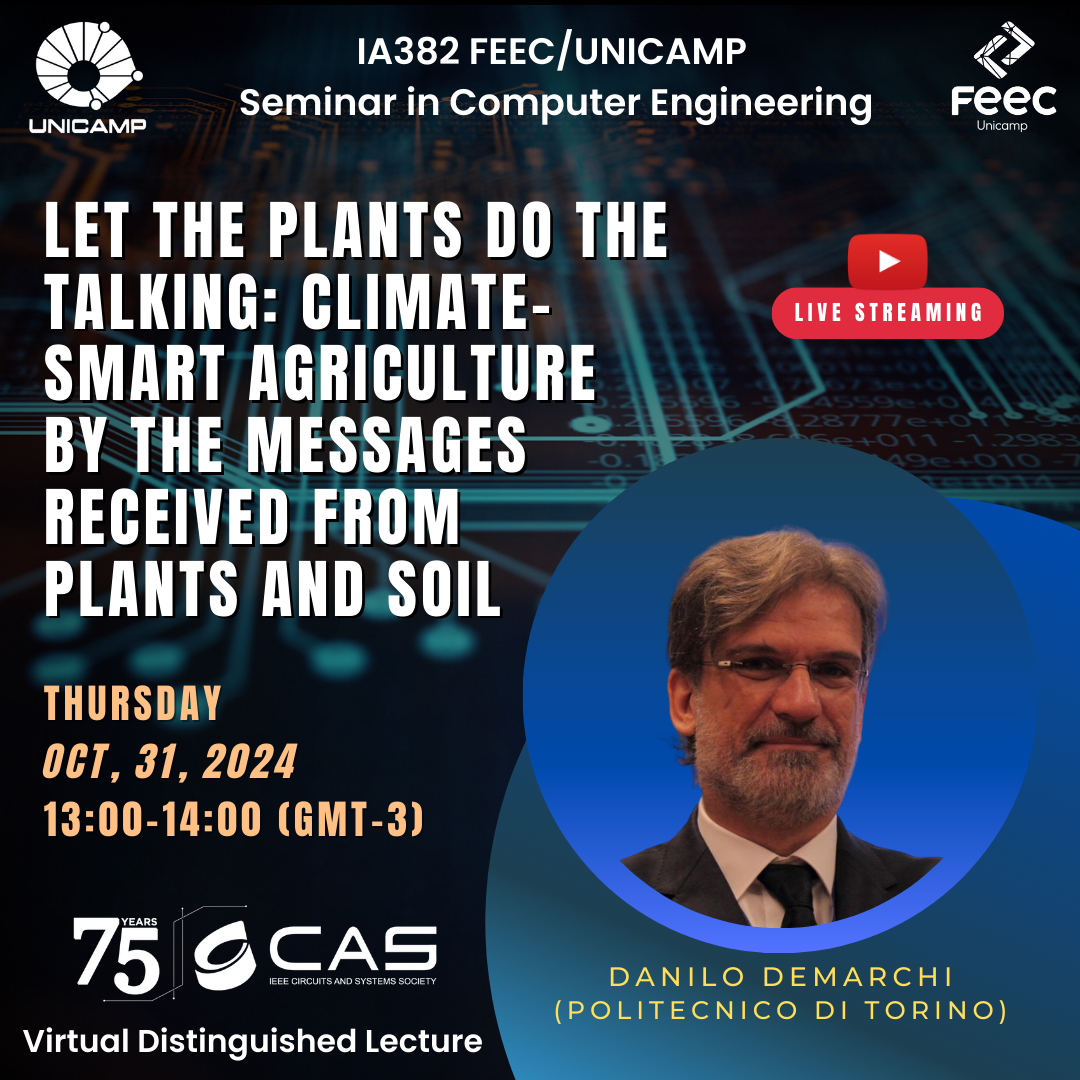
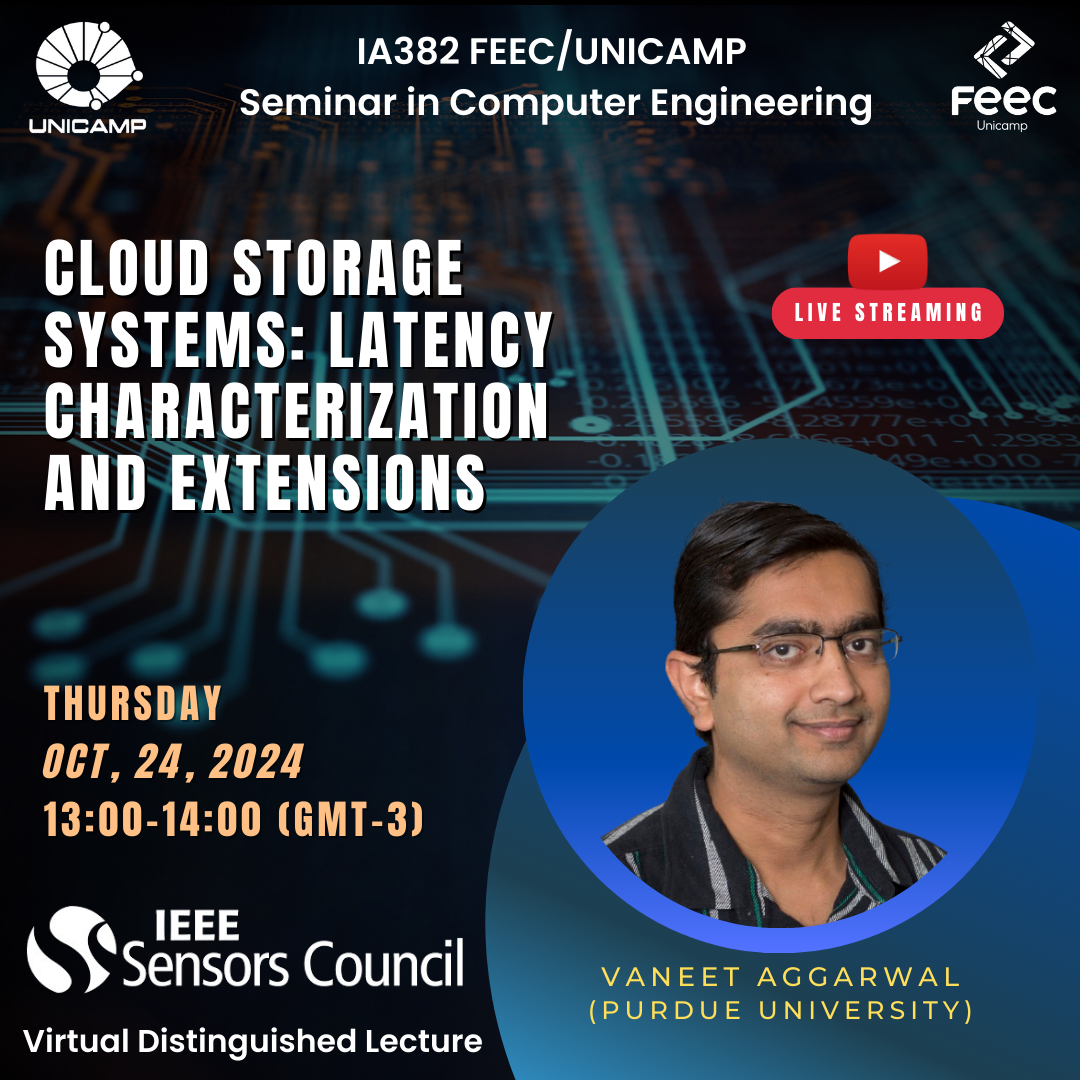
vaneet

diff --git a/content/seminars/seminars-2-2024/8/index.md b/content/seminars/seminars-2-2024/8/index.md
@@ -1,32 +1,32 @@
 ---
-title: "Let the Plants do the Talking: Climate-Smart Agriculture by the Messages Received from Plants and Soil"
-date: 2024-08-31T10:36:45-03:00
+title: "Cloud Storage Systems: Latency Characterization and Extensions"
+date: 2024-08-31T10:36:46-03:00
 draft: false
-tags: ["Climate-Smart Agriculture", "IoT in Agriculture", "Wearable Sensors for Plants"]
+tags: ["Erasure Coding", "Latency Characterization", "Cloud Computing Stragglers"]
 series: ["Seminars-2-2024"]
 series_order: 8
 ---
 
 ## Abstract
-As reported in the report recently issued by the United Nations (Intergovernmental Panel on Climate Change – IPCC Report 2021), the benefits that technology provides to a green and sustainable economy are highly appreciated and under intense research and development globally. Circuits and Systems (CAS), which are the base for any system, can bring the needed functionalities and performances for reaching eco-friendly, circular and practical solutions. The IoT active connections in agriculture (as an example in Europe) are exponentially increasing, proving that Climate-Smart Agriculture (CSA or Precision/Smart Agriculture) is a very fast-growing research field, where more controlled quality production, water use optimisation, and a lower spreading of pesticides and fertilisers are some key issues, serving the improvement of food quality, but also helping the respect of agriculture for the environment. To reach these targets, electronics are the perfect tool for interfacing the data sources, extracting and processing the data, and obtaining the needed information along the whole food chain: from the farmer and the professional stakeholders to the consumers. In the Distinguished Lecture, an overview of electronics for CSA will be presented, analysing the possible solutions that can bring important innovations, advancing the actual strategies based on remote or indirect measurements by instead of in-place measuring the plant and soil parameters (a.k.a. Let the Plants do The Talking), associated with more standard information derived from environmental conditions. This new and disruptive technology, related to Wearable Sensors for Plants, the World Economic Forum has recently identified it as one of the “Top five technologies about to change the world”, indicating it as one of the key solutions to increase food production by 70% by 2050 to be able to feed the world population. Application scenarios for crop monitoring, water control, information communication and decision support will be presented. In particular, it will be analysed technologies for reaching the needed levels of low power and low cost and the efficient ones to be applied to AgriFood at the global scale, also supporting food security and sustainability.
+Consumers are engaged in more social networking and E-commerce activities these days and are increasingly storing their documents and media in the online storage. Businesses are relying on Big Data analytics for business intelligence and are migrating their traditional IT infrastructure to the cloud. These trends cause the online data storage demand to rise faster than Moore's Law. Erasure coding techniques are used widely for distributed data storage since they provide space-optimal data redundancy to protect against data loss. Cost-effective, network-accessible storage is a strategic infrastructural capability that can serve many businesses. These customers, however, have very diverse requirements of latency, cost, security etc. In this talk, I will describe how to characterize latency. In order to characterize latency, we give and analyze a novel scheduling algorithm. We will also present extensions for video streaming, and applications for stragglers in cloud computing.
 
 
-## Bio of Danilo Demarchi
-<img alt="Danilo Demarchi" src="/seminars/seminars-2-2024/8/danilo.png" style="width: 40%; height: 160x;">
+## Bio of Vaneet Aggarwal
+<img alt="Vaneet Aggarwal" src="/seminars/seminars-2-2024/8/vaneet_aggarwal.png" style="width: 40%; height: 160x;">
 
-Danilo Demarchi is Full Professor at Politecnico di Torino, Department of Electronics and Telecommunications. Smart System Integration and IoTs for the AgriFood Value Chain and for BioMedical Devices. Pioneer in the research on Wearable Plant Sensors. Visiting Professor at EPFL Lausanne (2019) and at Tel Aviv University (2018-2021). Visiting Scientist (2018) at MIT and Harvard Medical School for the project SISTER (Smart electronic IoT SysTEms for Rehabilitation sciences). Author and co-author of 5 patents and more than 350 scientific publications in international journals and peer-reviewed conference proceedings. Leading the eLiONS (electronic Life-Oriented iNtelligent Systems - http://elions.polito.it) Laboratory of Politecnico di Torino and coordinating the Italian Institute of Technology Microelectronics group at Politecnico di Torino (IIT@DET). Founder and Editor in Chief of the IEEE Transactions on AgriFood Electronics -TAFE (https://ieee-cas.org/publication/ieee-transactions-agrifood-electronics). Founder and General-Co-Chair of the IEEE Conference on AgriFood Electronics - CAFE (https://2023.iee-cafe.org). Founder and Vice-Chair of the IEEE CAS Special Interest Group on AgriFood Electronics. 2023-2024 Distinguished Lecturer for the IEEE CAS Society with the Lecture "Let the Plants Do the Talking: Smart Agriculture by the messages received from Plants and Soil". Founder at Politecnico di Torino of the Master's Degree in AgriTech Engineering, where he is teaching the course of "IoT for Agriculture". Member of the IEEE Sensors Council (2020-2023) and the BioCAS Technical Committee (2013-today). Associate Editor of the IEEE Open Journal on Engineering in Medicine and Biology (OJ-EMB) and the Springer-Nature Journal BioNanoScience. Senior Member of IEEE.  General Chair of IEEE BioCAS (Biomedical Circuits and Systems) Conference in 2017 in Torino and founder of IEEE FoodCAS Workshop (Circuits and Systems for the FoodChain). TPC Co-Chair of IEEE ICECS 2019, IEEE BioCAS 2021 and 2022 conferences. General Co-Chair of IEEE BioCAS 2023. Organizer of the 3rd Seasonal School on AgriFood Electronics: Smart Technologies for a Sustainable Agriculture in Torino, September 2022.
+Vaneet Aggarwal received the B.Tech. degree in 2005 from Indian Institute of Technology, Kanpur, India and the M.A. and Ph.D. degrees in 2007 and 2010, respectively from Princeton University, Princeton, NJ, USA, all in Electrical Engineering.  He is currently a University Faculty Scholar and Professor and in the Edwardson School of Industrial Engineering, the Elmore Family School of Electrical and Computer Engineering (by courtesy), and the Department of Computer Science (by courtesy) at Purdue University, where he has been since Jan 2015. Prior to this, he worked as a researcher at AT&T Labs-Research, Florham Park (2010-2014). He was Adjunct Assistant Professor at Columbia University (EE, 2013-2014), VAJRA Adjunct Professor at IISc Bangalore (ECE, 2018-2019), Adjunct Faculty at IIIT Delhi (CS, 2022-2023), and Visiting Faculty at KAUST, Saudi Arabia (CS, 2022-2023). His research interests are in classical and quantum machine learning. Dr. Aggarwal was the recipient of Princeton University's Porter Ogden Jacobus Honorific Fellowship in 2009 and Purdue’s Most Impactful Faculty Innovator Award in 2020. He also received the 2017 Jack Neubauer Memorial Award recognizing the Best Systems Paper published in the IEEE Transactions on Vehicular Technology, the 2018 IEEE Infocom Workshop Best Paper Award, the 2021 NeurIPS Workshop Best Paper Award, and the 2024 IEEE William Bennett Prize Award recognizing the Best Paper published in IEEE/ACM Transactions on Networking.  He was on the Editorial Board of the IEEE Transactions on Green Communications and Networking and the IEEE Transactions on Communications. He is currently serving on the Editorial Board of the IEEE/ACM Transactions on Networking and IEEE Transactions on Network Science and Engineering, and is co-Editor-in-Chief of the ACM Journal on Transportation Systems. He is also IEEE ComSoc Distinguished Lecturer (2024-2025).
 
 ## Contact
-[E-mail](danilo.demarchi@polito.it) \
-[Danilo's website](https://elions.polito.it/team-member/demarchi-danilo/) \
-[Google Scholar](https://scholar.google.com/citations?hl=pt-BR&user=J_vNPF0AAAAJ)
+[E-mail](vaneet@purdue.edu)
+
+[Google Scholar](https://scholar.google.com/citations?user=Tu4lmGwAAAAJ&hl=en&oi=ao)
 
 ## Resources and Materials
 
 [FEEC UNICAMP streams](https://www.youtube.com/@feec-unicamp/streams)
 
-<!--<iframe width="560" height="315" src="https://www.youtube.com/embed/yz6Eg-J3CQE" title="YouTube video player" frameborder="0" allow="accelerometer; autoplay; clipboard-write; encrypted-media; gyroscope; picture-in-picture; web-share" allowfullscreen></iframe>
+<!--<iframe width="560" height="315" src="https://www.youtube.com/embed/S3_o8kDT1v8" title="YouTube video player" frameborder="0" allow="accelerometer; autoplay; clipboard-write; encrypted-media; gyroscope; picture-in-picture; web-share" allowfullscreen></iframe>
 -->
 
-**Save the date:** 13:00 - 14:00 (Brazil time), October, 31st, 2024.
+**Save the date:** 13:00 - 14:00 (Brazil time), October, 24th, 2024.
 

diff --git a/content/seminars/seminars-2-2024/9/index.md b/content/seminars/seminars-2-2024/9/index.md
@@ -1,0 +1,32 @@
+---
+title: "Let the Plants do the Talking: Climate-Smart Agriculture by the Messages Received from Plants and Soil"
+date: 2024-08-31T10:36:45-03:00
+draft: false
+tags: ["Climate-Smart Agriculture", "IoT in Agriculture", "Wearable Sensors for Plants"]
+series: ["Seminars-2-2024"]
+series_order: 9
+---
+
+## Abstract
+As reported in the report recently issued by the United Nations (Intergovernmental Panel on Climate Change – IPCC Report 2021), the benefits that technology provides to a green and sustainable economy are highly appreciated and under intense research and development globally. Circuits and Systems (CAS), which are the base for any system, can bring the needed functionalities and performances for reaching eco-friendly, circular and practical solutions. The IoT active connections in agriculture (as an example in Europe) are exponentially increasing, proving that Climate-Smart Agriculture (CSA or Precision/Smart Agriculture) is a very fast-growing research field, where more controlled quality production, water use optimisation, and a lower spreading of pesticides and fertilisers are some key issues, serving the improvement of food quality, but also helping the respect of agriculture for the environment. To reach these targets, electronics are the perfect tool for interfacing the data sources, extracting and processing the data, and obtaining the needed information along the whole food chain: from the farmer and the professional stakeholders to the consumers. In the Distinguished Lecture, an overview of electronics for CSA will be presented, analysing the possible solutions that can bring important innovations, advancing the actual strategies based on remote or indirect measurements by instead of in-place measuring the plant and soil parameters (a.k.a. Let the Plants do The Talking), associated with more standard information derived from environmental conditions. This new and disruptive technology, related to Wearable Sensors for Plants, the World Economic Forum has recently identified it as one of the “Top five technologies about to change the world”, indicating it as one of the key solutions to increase food production by 70% by 2050 to be able to feed the world population. Application scenarios for crop monitoring, water control, information communication and decision support will be presented. In particular, it will be analysed technologies for reaching the needed levels of low power and low cost and the efficient ones to be applied to AgriFood at the global scale, also supporting food security and sustainability.
+
+
+## Bio of Danilo Demarchi
+<img alt="Danilo Demarchi" src="/seminars/seminars-2-2024/9/danilo.png" style="width: 40%; height: 160x;">
+
+Danilo Demarchi is Full Professor at Politecnico di Torino, Department of Electronics and Telecommunications. Smart System Integration and IoTs for the AgriFood Value Chain and for BioMedical Devices. Pioneer in the research on Wearable Plant Sensors. Visiting Professor at EPFL Lausanne (2019) and at Tel Aviv University (2018-2021). Visiting Scientist (2018) at MIT and Harvard Medical School for the project SISTER (Smart electronic IoT SysTEms for Rehabilitation sciences). Author and co-author of 5 patents and more than 350 scientific publications in international journals and peer-reviewed conference proceedings. Leading the eLiONS (electronic Life-Oriented iNtelligent Systems - http://elions.polito.it) Laboratory of Politecnico di Torino and coordinating the Italian Institute of Technology Microelectronics group at Politecnico di Torino (IIT@DET). Founder and Editor in Chief of the IEEE Transactions on AgriFood Electronics -TAFE (https://ieee-cas.org/publication/ieee-transactions-agrifood-electronics). Founder and General-Co-Chair of the IEEE Conference on AgriFood Electronics - CAFE (https://2023.iee-cafe.org). Founder and Vice-Chair of the IEEE CAS Special Interest Group on AgriFood Electronics. 2023-2024 Distinguished Lecturer for the IEEE CAS Society with the Lecture "Let the Plants Do the Talking: Smart Agriculture by the messages received from Plants and Soil". Founder at Politecnico di Torino of the Master's Degree in AgriTech Engineering, where he is teaching the course of "IoT for Agriculture". Member of the IEEE Sensors Council (2020-2023) and the BioCAS Technical Committee (2013-today). Associate Editor of the IEEE Open Journal on Engineering in Medicine and Biology (OJ-EMB) and the Springer-Nature Journal BioNanoScience. Senior Member of IEEE.  General Chair of IEEE BioCAS (Biomedical Circuits and Systems) Conference in 2017 in Torino and founder of IEEE FoodCAS Workshop (Circuits and Systems for the FoodChain). TPC Co-Chair of IEEE ICECS 2019, IEEE BioCAS 2021 and 2022 conferences. General Co-Chair of IEEE BioCAS 2023. Organizer of the 3rd Seasonal School on AgriFood Electronics: Smart Technologies for a Sustainable Agriculture in Torino, September 2022.
+
+## Contact
+[E-mail](danilo.demarchi@polito.it) \
+[Danilo's website](https://elions.polito.it/team-member/demarchi-danilo/) \
+[Google Scholar](https://scholar.google.com/citations?hl=pt-BR&user=J_vNPF0AAAAJ)
+
+## Resources and Materials
+
+[FEEC UNICAMP streams](https://www.youtube.com/@feec-unicamp/streams)
+
+<!--<iframe width="560" height="315" src="https://www.youtube.com/embed/yz6Eg-J3CQE" title="YouTube video player" frameborder="0" allow="accelerometer; autoplay; clipboard-write; encrypted-media; gyroscope; picture-in-picture; web-share" allowfullscreen></iframe>
+-->
+
+**Save the date:** 13:00 - 14:00 (Brazil time), October, 31st, 2024.
+
